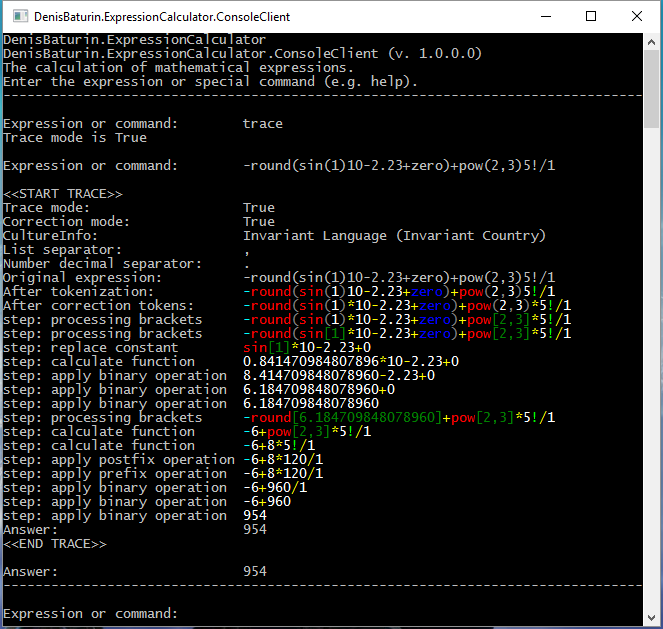
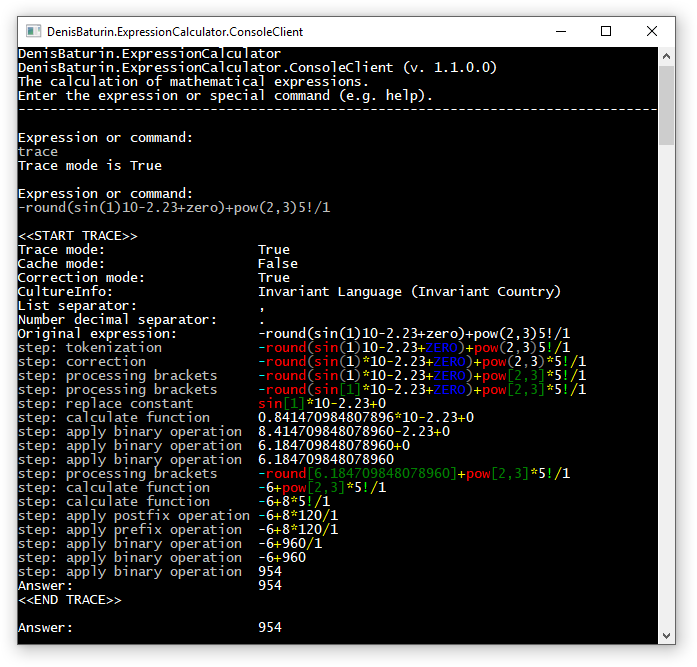
Support for caching results has been added.

diff --git a/src/DenisBaturin.ExpressionCalculator/Calculator.cs b/src/DenisBaturin.ExpressionCalculator/Calculator.cs
@@ -16,17 +16,17 @@ namespace DenisBaturin.ExpressionCalculator
 {
     public class Calculator
     {
-        // ReSharper disable once CollectionNeverUpdated.Local
-        // ReSharper disable once FieldCanBeMadeReadOnly.Local
-        [ImportMany(typeof (Operator))] private List<Operator> _importOperators = new List<Operator>();
+        [ImportMany(typeof(Operator))] private readonly List<Operator> _importOperators = new List<Operator>();
         private readonly OperatorsUniqueList _operators = new OperatorsUniqueList();
         private readonly SpecialSymbolsUniqueList _specialSymbols;
         private ResultInfo _resultInfo;
-        public readonly CultureInfo CalculatorCultureInfo;
+        private readonly Dictionary<string, decimal> _cache = new Dictionary<string, decimal>();
 
+        public readonly CultureInfo CalculatorCultureInfo;
         public bool TraceMode { get; set; } = false;
         public bool CorrectionMode { get; set; } = true;
-        
+        public bool CacheMode { get; set; } = false;
+
         public Calculator(CultureInfo cultureInfo = null)
         {
             CalculatorCultureInfo = cultureInfo ?? CultureInfo.InvariantCulture;
@@ -45,7 +45,7 @@ namespace DenisBaturin.ExpressionCalculator
             //An aggregate catalog that combines multiple catalogs
             var catalog = new AggregateCatalog();
             //Adds all the parts found in the same assembly as the Calculator class
-            catalog.Catalogs.Add(new AssemblyCatalog(typeof (Calculator).Assembly));
+            catalog.Catalogs.Add(new AssemblyCatalog(typeof(Calculator).Assembly));
             // Adds "Operators" catalog if exists
             var location = Path.GetDirectoryName(Assembly.GetExecutingAssembly().Location);
             if (location != null)
@@ -56,6 +56,7 @@ namespace DenisBaturin.ExpressionCalculator
                     catalog.Catalogs.Add(new DirectoryCatalog(operatorsDirectory));
                 }
             }
+
             //Create the CompositionContainer with the parts in the catalog
             var compositionContainer = new CompositionContainer(catalog);
             //Fill the imports of this object
@@ -91,6 +92,24 @@ namespace DenisBaturin.ExpressionCalculator
         {
             _resultInfo = new ResultInfo();
 
+            if (CacheMode)
+            {
+                if (_cache.ContainsKey(expression))
+                {
+                    var answerFromCache = _cache[expression];
+                    var tokensForCache = new List<Token>();
+                    var answerToken = new Token(answerFromCache, CalculatorCultureInfo);
+                    tokensForCache.Add(answerToken);
+                    _resultInfo.TraceResult.Add(new TraceResultItem
+                    {
+                        Text = "step: get answer from cache",
+                        Tokens = tokensForCache
+                    });
+                    _resultInfo.Answer = answerFromCache;
+                    return _resultInfo;
+                }
+            }
+
             var expressionValidateResult = StringExpressionValidator.Validate(expression,
                 _specialSymbols.Single(ss => ss.Type == SpecialSymbolType.LeftBracket),
                 _specialSymbols.Single(ss => ss.Type == SpecialSymbolType.RightBracket));
@@ -117,6 +136,11 @@ namespace DenisBaturin.ExpressionCalculator
             var result = CalculateResultFromTokensWithoutBrackets(tokens);
 
             _resultInfo.Answer = result;
+
+            if (CacheMode)
+            {
+                _cache.Add(expression, result);
+            }
 
             return _resultInfo;
         }
@@ -183,6 +207,7 @@ namespace DenisBaturin.ExpressionCalculator
                     var resultNumber = CalculateResultFromTokensWithoutBrackets(tokensBetweenBrackets);
                     tokens[leftBracketIndex] = new Token(resultNumber, CalculatorCultureInfo);
                 }
+
                 tokens.RemoveRange(leftBracketIndex + 1, rightBracketIndex - leftBracketIndex);
 
                 _resultInfo.TraceResult.Add(new TraceResultItem
@@ -191,6 +216,7 @@ namespace DenisBaturin.ExpressionCalculator
                     Tokens = new List<Token>(tokens)
                 });
             }
+
             return tokens;
         }
 

diff --git a/src/DenisBaturin.ExpressionCalculator.ConsoleClient/Program.cs b/src/DenisBaturin.ExpressionCalculator.ConsoleClient/Program.cs
@@ -67,6 +67,11 @@ Enter the expression or special command (e.g. help).
                         AppLogger.Logger.Log(LogLevel.Info,
                             "Trace mode is " + calculator.TraceMode + Environment.NewLine);
                         continue;
+                    case "cache":
+                        calculator.CacheMode = !calculator.CacheMode;
+                        AppLogger.Logger.Log(LogLevel.Info,
+                            "Cache mode is " + calculator.CacheMode + Environment.NewLine);
+                        continue;
                     case "correction":
                         calculator.CorrectionMode = !calculator.CorrectionMode;
                         AppLogger.Logger.Log(LogLevel.Info,
@@ -111,6 +116,7 @@ Enter the expression or special command (e.g. help).
                                 LogFormattedMessage(LogLevel.Info, "");
                                 LogFormattedMessage(LogLevel.Info, "<<START TRACE>>");
                                 LogFormattedMessage(LogLevel.Info, "Trace mode:", calculator.TraceMode.ToString());
+                                LogFormattedMessage(LogLevel.Info, "Cache mode:", calculator.CacheMode.ToString());
                                 LogFormattedMessage(LogLevel.Info, "Correction mode:",
                                     calculator.CorrectionMode.ToString());
                                 LogFormattedMessage(LogLevel.Info, "CultureInfo:",
@@ -166,6 +172,9 @@ Enter the expression or special command (e.g. help).
             sb.AppendLine();
             sb.AppendLine("trace".PadRight(PromptStringLength) + "- sets mode of trace calculation On/Off");
             sb.AppendLine("Display of all steps of calculating.");
+            sb.AppendLine();
+            sb.AppendLine("cache".PadRight(PromptStringLength) + "- sets mode of use cache On/Off");
+            sb.AppendLine("Get answer of expression from cache.");
             sb.AppendLine();
             sb.AppendLine("correction".PadRight(PromptStringLength) + "- sets mode of correction expression On/Off");
             sb.AppendLine("Insert the multiplication operator if necessary.");

diff --git a/src/DenisBaturin.ExpressionCalculator.Tests/Tests/CacheTests.cs b/src/DenisBaturin.ExpressionCalculator.Tests/Tests/CacheTests.cs
@@ -1,0 +1,44 @@
+using NUnit.Framework;
+
+namespace DenisBaturin.ExpressionCalculator.Tests.Tests
+{
+
+    [TestFixture]
+    public class CacheTests
+    {
+
+        public class TestCase
+        {
+            public string Expression;
+            public decimal ExpectedAnswer;
+
+            public override string ToString()
+            {
+                return Expression;
+            }
+        }
+
+        public static TestCase[] CacheParameterDoesNotAffectTheResultTestCases =
+        {
+            new TestCase {Expression = "5+2*3*1+2((1-2)(2-3))", ExpectedAnswer = 13M},
+            new TestCase {Expression = "5+2*3*1+2((1-2)(2-3))*-1", ExpectedAnswer = 9M},
+            new TestCase {Expression = "4^2-2*3^2 +4", ExpectedAnswer = 2M},
+            new TestCase {Expression = "(3+2)(1+-2)(1--2)(1-+8)", ExpectedAnswer = 105},
+            new TestCase {Expression = "(3+2)(1+-2)(1++2)(1-+8)", ExpectedAnswer = 105M},
+        };
+
+        [TestCaseSource(nameof(CacheParameterDoesNotAffectTheResultTestCases))]
+        public void CacheParameterDoesNotAffectTheResultTest(TestCase testCase)
+        {
+            var calculator = new Calculator();
+
+            calculator.CacheMode = false; 
+            var actualAnswer = calculator.CalculateExpression(testCase.Expression).Answer;
+            Assert.AreEqual(testCase.ExpectedAnswer, actualAnswer, $"Expression: {testCase.Expression}");
+
+            calculator.CacheMode = true;
+            var actualAnswerWithCacheParam = calculator.CalculateExpression(testCase.Expression).Answer;
+            Assert.AreEqual(testCase.ExpectedAnswer, actualAnswerWithCacheParam, $"Expression: {testCase.Expression}");
+        }
+    }
+}

diff --git a/README.md b/README.md
@@ -15,6 +15,7 @@
 * Поддержка Unicode в названии операторов
 * Поддержка региональных настроек
 * Отображение трассировки вычисления
+* Поддержка кэширования результатов
 * Поддержка расширения функциональности
  
 ---
@@ -22,7 +23,8 @@
 Калькулятор вычисляет результат математического выражения, записанного в виде строки текста.  
 Например:  
 
-    Expression or command:        -10-2*5^2-round(pi)+5!-(4+1)/5  
+    Expression or command:        
+    -10-2*5^2-round(pi)+5!-(4+1)/5  
     Answer:                       56
 
 
@@ -41,7 +43,8 @@
 **Константа** представляет собой буквенно-цифровое представление, заменяющее число.  
 Например:  
 
-    Expression or command:        pi
+    Expression or command:        
+    pi
     Answer:                       3,1415926535897932384626433833
 
 **Действие** выполняет какую-либо операцию с одним или двумя числами.  
@@ -59,7 +62,8 @@
 В наименовании операторов **регистр символов не учитывается**. Операторы можно вводить как в верхнем или нижнем регистре, так и в комбинированном виде.  
 Например:
 
-    Expression or command:        COS(1) + cos(1) + cOs(1) + CoS(1)
+    Expression or command:        
+    COS(1) + cos(1) + cOs(1) + CoS(1)
     Answer:                       2,16120922347256
 
 **Ассоциативность (порядок выполнения операторов)**  
@@ -76,7 +80,8 @@
 
 Включение/отключение режима коррекции производится с помощью команды `correction`:  
 
-    Expression or command:        correction
+    Expression or command:        
+    correction
     Correction mode is False
   
 По умолчанию режим коррекции включён.  
@@ -92,8 +97,10 @@
 Установка региональных настроек производится с помощью команды `culture`, а затем ввода имени региональной культуры.  
 Например:  
 
-    Expression or command:        culture  
-    Type CultureInfo name:        ru-RU  
+    Expression or command:        
+    culture  
+    Type CultureInfo name:        
+    ru-RU  
     Current CultureInfo:          Russian (Russia)  
     List separator:               ;  
     Number decimal separator:     ,  
@@ -104,13 +111,26 @@
 ## Трассировка вычисления
 Калькулятор поддерживает отображение этапов вычисления - трассировку. Включение/отключение режима трассировки производится с помощью команды `trace`:  
 
-    Expression or command:        trace
+    Expression or command:        
+    trace
     Trace mode is True
   
 По умолчанию режим трассировки выключен.  
   
 Пример трассировки вычисления:
 ![Alt text](./info/readme_images/readme_trace.png)
+
+---
+## Кэширование результатов
+Калькулятор поддерживает **кэширование** результатов вычисления выражения. Если режим кэширования включён, то результат вычисления выражения помещается в кэш. В дальнейшем для такого выражения вычисление не производится, а результат берётся сразу из кэша.  
+
+Включение/отключение режима кэширования производится с помощью команды `cache`:  
+
+    Expression or command:        
+    cache
+    Cache mode is True
+  
+По умолчанию режим кэширования выключён.  
 
 ---
 ## Поддержка расширения функциональности
@@ -146,6 +166,7 @@ public class Sqrt : OperatorFunction
 * help - отображение справки по командам  
 * list - отображение списка доступных операторов  
 * trace - включение/выключение режима трассировки  
+* cache - включение/выключение режима кэширования  
 * correction - включение/выключение режима коррекции  
 * culture - установка конкретной региональной культуры  
 * quit - выход из приложения
